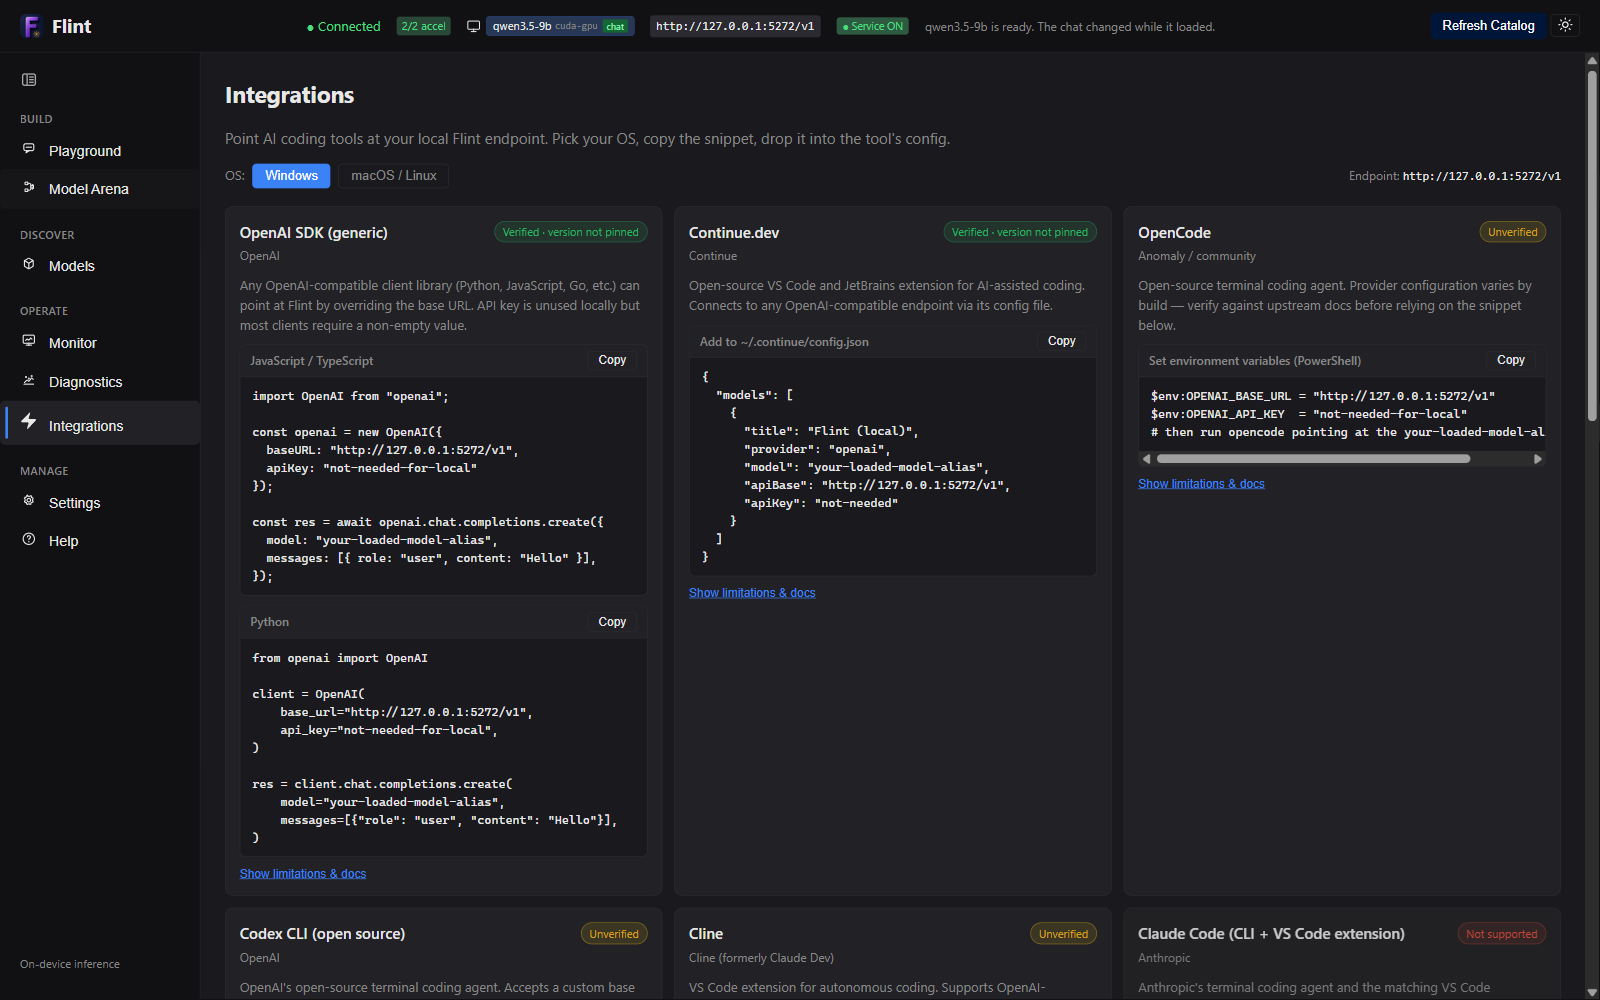
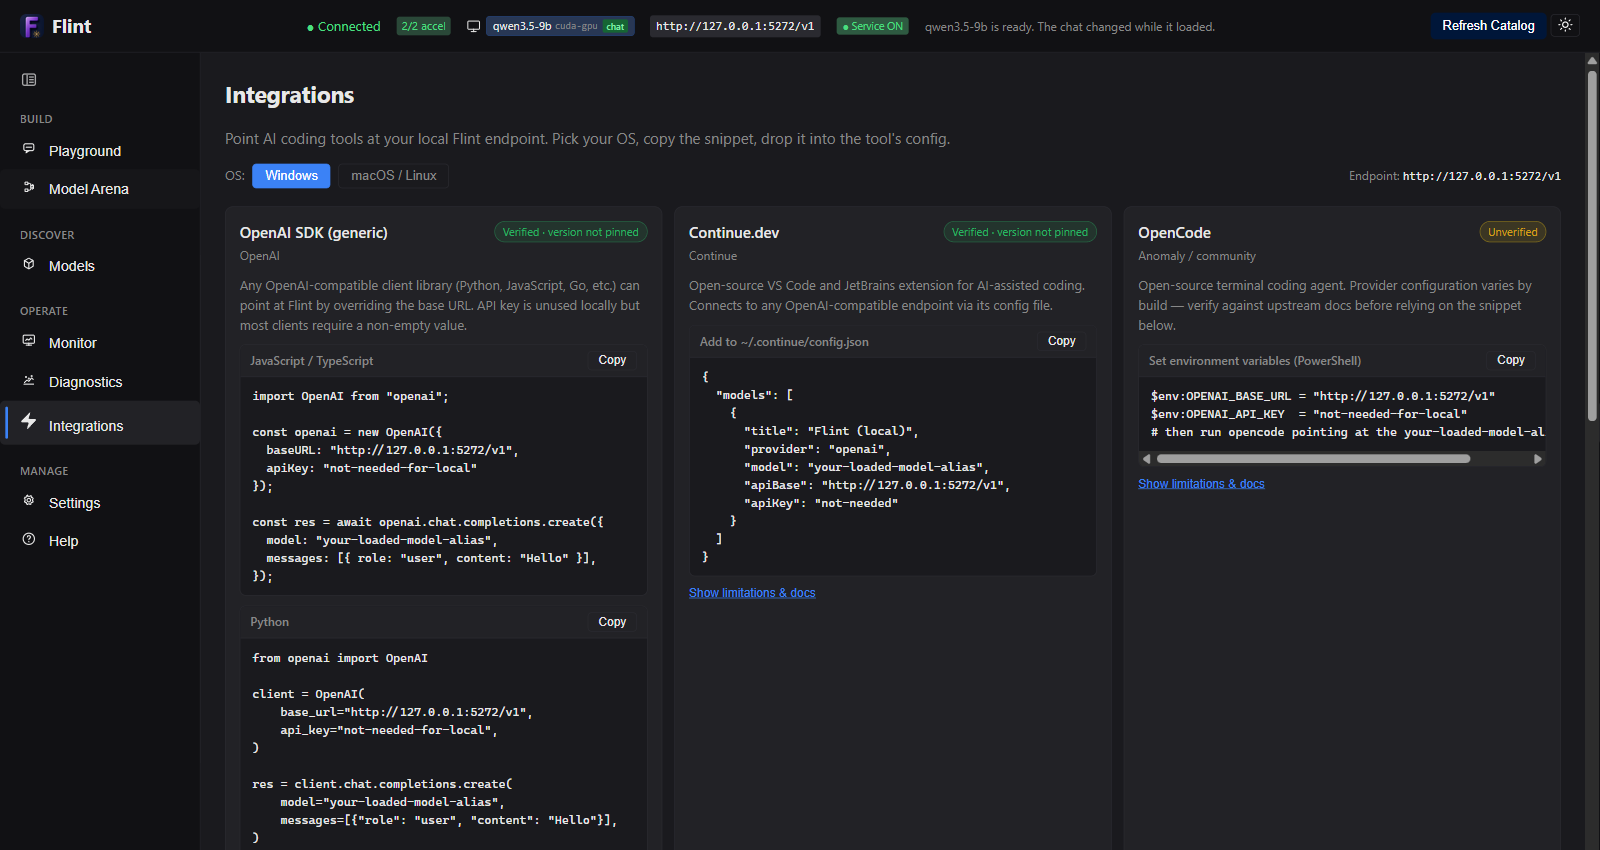
Remove unsupported integrations
Remove unsupported tools from the integration catalog and obsolete UI states, refresh the documentation screenshots, and restore light-theme contrast for the header theme toggle.

diff --git a/src/routes/+page.svelte b/src/routes/+page.svelte
@@ -199,8 +199,7 @@
   function statusBadgeLabel(status: IntegrationStatus): string {
     if (status === 'verified') return 'Verified';
     if (status === 'community') return 'Community-reported';
-    if (status === 'research-needed') return 'Unverified';
-    return 'Not supported';
+    return 'Unverified';
   }
 
   // Simple client-side navigation
@@ -8579,7 +8578,7 @@ Output only the summary text, no preamble.`;
             {#each integrations as integration (integration.id)}
               {@const osSnippets = integration.snippets[integrationsOS]}
               {@const isExpanded = expandedIntegrationId === integration.id}
-              <article class="integration-card" class:status-unsupported={integration.status === 'unsupported'}>
+              <article class="integration-card">
                 <header class="integration-card-head">
                   <div class="integration-title">
                     <h3>{integration.name}</h3>
@@ -8596,27 +8595,23 @@ Output only the summary text, no preamble.`;
                 </header>
                 <p class="integration-desc">{integration.description}</p>
 
-                {#if osSnippets.length === 0}
-                  <p class="integration-empty">No snippet — see limitations below.</p>
-                {:else}
-                  {#each osSnippets as snippet, snippetIdx}
-                    {@const snippetKey = `${integration.id}-${integrationsOS}-${snippetIdx}`}
-                    {@const rendered = renderSnippet(snippet.body, state.endpoint || '')}
-                    <div class="snippet-block">
-                      <div class="snippet-head">
-                        <span class="snippet-label">{snippet.label}</span>
-                        <button
-                          class="snippet-copy"
-                          type="button"
-                          onclick={() => copyIntegrationSnippet(snippetKey, rendered)}
-                        >
-                          {copiedSnippetKey === snippetKey ? 'Copied' : 'Copy'}
-                        </button>
-                      </div>
-                      <pre class="snippet-body">{rendered}</pre>
+                {#each osSnippets as snippet, snippetIdx}
+                  {@const snippetKey = `${integration.id}-${integrationsOS}-${snippetIdx}`}
+                  {@const rendered = renderSnippet(snippet.body, state.endpoint || '')}
+                  <div class="snippet-block">
+                    <div class="snippet-head">
+                      <span class="snippet-label">{snippet.label}</span>
+                      <button
+                        class="snippet-copy"
+                        type="button"
+                        onclick={() => copyIntegrationSnippet(snippetKey, rendered)}
+                      >
+                        {copiedSnippetKey === snippetKey ? 'Copied' : 'Copy'}
+                      </button>
                     </div>
-                  {/each}
-                {/if}
+                    <pre class="snippet-body">{rendered}</pre>
+                  </div>
+                {/each}
 
                 {#if (integration.limitations && integration.limitations.length) || integration.docsUrl}
                   <button
@@ -9943,6 +9938,7 @@ Output only the summary text, no preamble.`;
   .theme-toggle {
     font-size: 1rem;
     background: none;
+    color: var(--fg);
     border: 1px solid var(--border);
     padding: 2px 6px;
     border-radius: 4px;
@@ -11978,10 +11974,6 @@ Output only the summary text, no preamble.`;
     gap: 10px;
   }
 
-  .integration-card.status-unsupported {
-    opacity: 0.85;
-  }
-
   .integration-card-head {
     display: flex;
     align-items: flex-start;
@@ -12027,24 +12019,11 @@ Output only the summary text, no preamble.`;
     border-color: rgba(241, 196, 15, 0.4);
   }
 
-  .status-badge.status-unsupported {
-    background: rgba(231, 76, 60, 0.1);
-    color: #e74c3c;
-    border-color: rgba(231, 76, 60, 0.4);
-  }
-
   .integration-desc {
     margin: 0;
     color: var(--muted);
     font-size: 13px;
     line-height: 1.5;
-  }
-
-  .integration-empty {
-    margin: 0;
-    color: var(--muted);
-    font-style: italic;
-    font-size: 13px;
   }
 
   .snippet-block {

diff --git a/src/lib/integrations.ts b/src/lib/integrations.ts
@@ -18,9 +18,7 @@ export type IntegrationStatus =
   /** Reported to work by users / docs but not yet exercised by the Flint team. */
   | 'community'
   /** Config not yet confirmed — snippet is a best-effort starting point only. */
-  | 'research-needed'
-  /** Tool cannot use Flint directly (proprietary backend or non-OpenAI protocol). */
-  | 'unsupported';
+  | 'research-needed';
 
 export type IntegrationCategory =
   | 'editor'        // IDE / editor extensions
@@ -294,22 +292,6 @@ codex --model {MODEL}`,
   },
 
   {
-    id: 'claude-code',
-    name: 'Claude Code (CLI + VS Code extension)',
-    vendor: 'Anthropic',
-    category: 'cli',
-    status: 'unsupported',
-    description:
-      "Anthropic's terminal coding agent and the matching VS Code extension are wire-bound to the Anthropic Messages API shape. Flint speaks OpenAI-compatible, so there is no direct path. Translation proxies exist but lose features Claude Code actually uses (prompt caching, extended thinking, content-block tool use, computer-use tools) — we don't recommend that workaround.",
-    snippets: { windows: [], unix: [] },
-    limitations: [
-      'No direct OpenAI-compatible mode — Claude Code uses the Anthropic Messages API exclusively.',
-      'The VS Code extension drives the same CLI binary, so it inherits the same limitation; it does not expose a custom-backend setting.',
-      'For OpenAI-compatible terminal coding agents on Flint, see OpenClaw, OpenCode, or Codex CLI instead.',
-    ],
-  },
-
-  {
     id: 'github-copilot-vscode',
     name: 'GitHub Copilot (VS Code)',
     vendor: 'GitHub / Microsoft',
@@ -340,38 +322,6 @@ the picker layout differs from the steps above.`,
       'Only the chat surface accepts custom providers; inline completions still go through the hosted Copilot backend.',
     ],
     docsUrl: 'https://docs.github.com/en/copilot',
-  },
-
-  {
-    id: 'github-copilot-cli',
-    name: 'GitHub Copilot CLI',
-    vendor: 'GitHub',
-    category: 'cli',
-    status: 'unsupported',
-    description:
-      "GitHub's terminal AI tool (`gh copilot`) connects to GitHub's hosted backend and does not support custom endpoints. Distinct from the Copilot VS Code extension above, which does support Flint.",
-    snippets: { windows: [], unix: [] },
-    limitations: [
-      'No public mechanism to point gh copilot at a custom backend.',
-      'For terminal coding agents on Flint, consider OpenCode or Codex CLI; for editor integration, use Copilot for VS Code (entry above) or Continue.dev.',
-    ],
-    docsUrl: 'https://docs.github.com/en/copilot/github-copilot-in-the-cli',
-  },
-
-  {
-    id: 'openai-codex-app',
-    name: 'Codex App (hosted)',
-    vendor: 'OpenAI',
-    category: 'agent',
-    status: 'unsupported',
-    description:
-      "OpenAI's hosted Codex agent product runs in OpenAI's cloud and cannot be redirected to a local backend.",
-    snippets: { windows: [], unix: [] },
-    limitations: [
-      'Hosted product with no self-hosted or BYO-endpoint mode.',
-      'Use the open-source Codex CLI instead if you want a local-backed coding agent.',
-    ],
-    docsUrl: 'https://openai.com/codex',
   },
 
   {

diff --git a/.changeset/remove-unsupported-integrations.md b/.changeset/remove-unsupported-integrations.md
@@ -1,0 +1,5 @@
+---
+"flint": patch
+---
+
+Show only integrations that can connect to Flint and keep the theme toggle visible in light mode.
